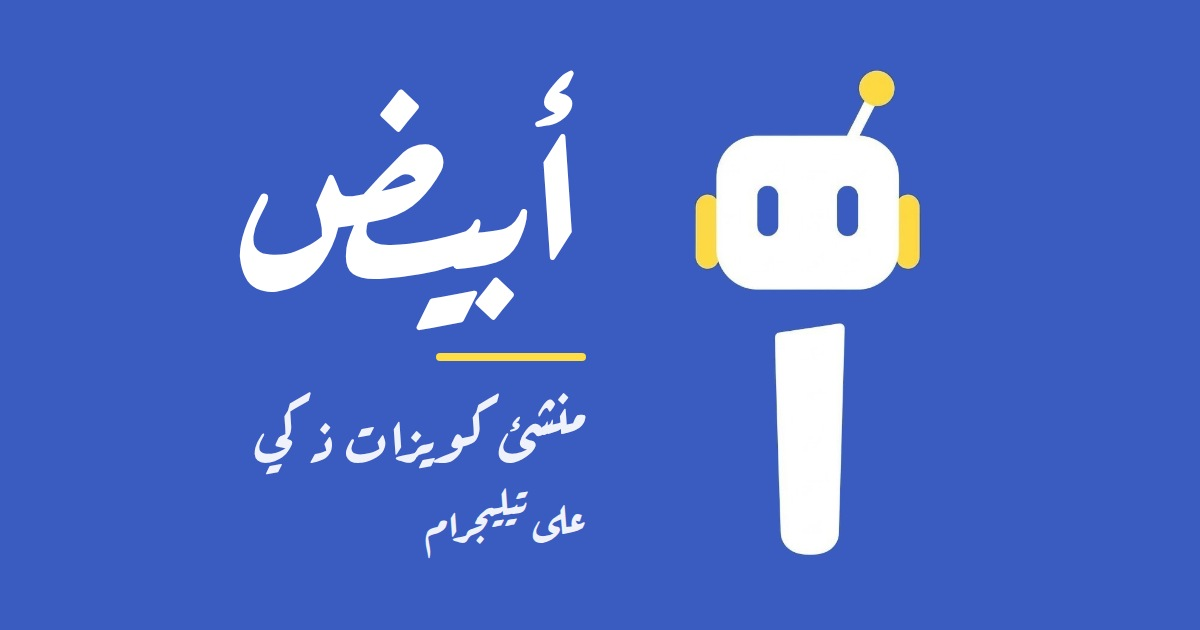
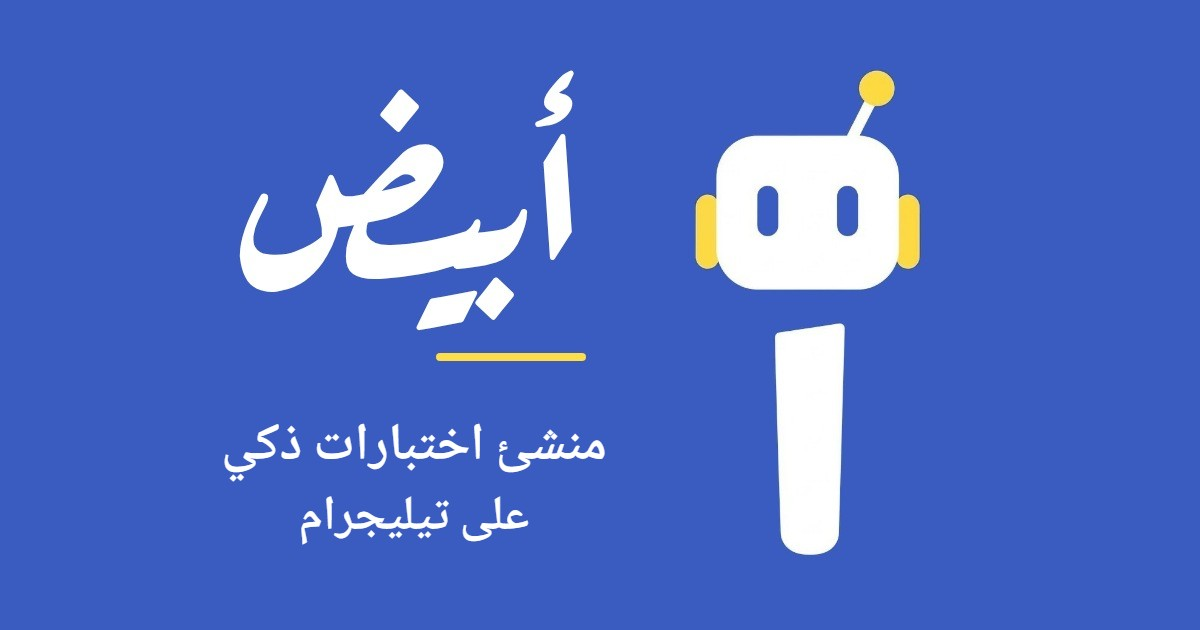
Refresh branded consent preview card

Changed region(s): [[0.185, 0.6333, 0.5242, 0.7841], [0.2467, 0.7841, 0.4933, 0.8746]]

diff --git a/group-quiz/index.html b/group-quiz/index.html
@@ -13,7 +13,7 @@
 <meta property="og:site_name" content="أبيض - منشئ اختبارات ذكي">
 <meta property="og:title" content="اختبار جماعي في مجموعة أو قناة تيليجرام | أبيض">
 <meta property="og:description" content="يشغّل مشرف المجموعة أو القناة اختباراً على تيليجرام بوضع تنافسي مع ترتيب نهائي أو بوضع مجهول، مع مؤقت لكل سؤال وتحكم بوتيرة الأسئلة. تشغيل الاختبار الجماعي لا يخصم نقاطاً.">
-<meta property="og:image" content="https://abiad.me/assets/og-image.jpg?v=4">
+<meta property="og:image" content="https://abiad.me/assets/og-image.jpg?v=5">
 <meta name="twitter:card" content="summary_large_image">
 <link rel="canonical" href="https://abiad.me/group-quiz/">
 <meta property="og:url" content="https://abiad.me/group-quiz/">
@@ -22,7 +22,7 @@
 <meta property="og:image:alt" content="شعار بوت أبيض - منشئ اختبارات ذكي">
 <meta name="twitter:title" content="اختبار جماعي في مجموعة أو قناة تيليجرام | أبيض">
 <meta name="twitter:description" content="يشغّل مشرف المجموعة أو القناة اختباراً على تيليجرام بوضع تنافسي مع ترتيب نهائي أو بوضع مجهول، مع مؤقت لكل سؤال وتحكم بوتيرة الأسئلة. تشغيل الاختبار الجماعي لا يخصم نقاطاً.">
-<meta name="twitter:image" content="https://abiad.me/assets/og-image.jpg?v=4">
+<meta name="twitter:image" content="https://abiad.me/assets/og-image.jpg?v=5">
 <script type="application/ld+json">
 {
   "@context": "https://schema.org",

diff --git a/lecture-transcription/index.html b/lecture-transcription/index.html
@@ -13,7 +13,7 @@
 <meta property="og:site_name" content="أبيض - منشئ اختبارات ذكي">
 <meta property="og:title" content="تفريغ وتلخيص المحاضرات الصوتية إلى نص أو اختبار | أبيض">
 <meta property="og:description" content="ارفع تسجيل محاضرة صوتية (حتى 4 ساعات) إلى بوت أبيض على تيليجرام لتفريغه إلى نص بالعربية بلهجاتها أو الإنجليزية، ثم لخّصه أو صدّره Word وPDF أو حوّله إلى اختبار.">
-<meta property="og:image" content="https://abiad.me/assets/og-image.jpg?v=4">
+<meta property="og:image" content="https://abiad.me/assets/og-image.jpg?v=5">
 <meta name="twitter:card" content="summary_large_image">
 <link rel="canonical" href="https://abiad.me/lecture-transcription/">
 <meta property="og:url" content="https://abiad.me/lecture-transcription/">
@@ -22,7 +22,7 @@
 <meta property="og:image:alt" content="شعار بوت أبيض - منشئ اختبارات ذكي">
 <meta name="twitter:title" content="تفريغ وتلخيص المحاضرات الصوتية إلى نص أو اختبار | أبيض">
 <meta name="twitter:description" content="ارفع تسجيل محاضرة صوتية (حتى 4 ساعات) إلى بوت أبيض على تيليجرام لتفريغه إلى نص بالعربية بلهجاتها أو الإنجليزية، ثم لخّصه أو صدّره Word وPDF أو حوّله إلى اختبار.">
-<meta name="twitter:image" content="https://abiad.me/assets/og-image.jpg?v=4">
+<meta name="twitter:image" content="https://abiad.me/assets/og-image.jpg?v=5">
 <script type="application/ld+json">
 {
   "@context": "https://schema.org",

diff --git a/english-french-quiz/index.html b/english-french-quiz/index.html
@@ -13,7 +13,7 @@
 <meta property="og:site_name" content="أبيض - منشئ اختبارات ذكي">
 <meta property="og:title" content="اختبار إنجليزي أو فرنسي مع ترجمة عربية على تيليجرام | أبيض">
 <meta property="og:description" content="أنشئ اختباراً للغة الإنجليزية أو الفرنسية على بوت أبيض: قواعد أو قراءة أو اختباراً عاماً، واختر أن تظهر الأسئلة مترجمة إلى العربية أو بلغتها الأصلية.">
-<meta property="og:image" content="https://abiad.me/assets/og-image.jpg?v=4">
+<meta property="og:image" content="https://abiad.me/assets/og-image.jpg?v=5">
 <meta name="twitter:card" content="summary_large_image">
 <link rel="canonical" href="https://abiad.me/english-french-quiz/">
 <meta property="og:url" content="https://abiad.me/english-french-quiz/">
@@ -22,7 +22,7 @@
 <meta property="og:image:alt" content="شعار بوت أبيض - منشئ اختبارات ذكي">
 <meta name="twitter:title" content="اختبار إنجليزي أو فرنسي مع ترجمة عربية على تيليجرام | أبيض">
 <meta name="twitter:description" content="أنشئ اختباراً للغة الإنجليزية أو الفرنسية على بوت أبيض: قواعد أو قراءة أو اختباراً عاماً، واختر أن تظهر الأسئلة مترجمة إلى العربية أو بلغتها الأصلية.">
-<meta name="twitter:image" content="https://abiad.me/assets/og-image.jpg?v=4">
+<meta name="twitter:image" content="https://abiad.me/assets/og-image.jpg?v=5">
 <script type="application/ld+json">
 {
   "@context": "https://schema.org",

diff --git a/exam-to-quiz/index.html b/exam-to-quiz/index.html
@@ -13,7 +13,7 @@
 <meta property="og:site_name" content="أبيض - منشئ اختبارات ذكي">
 <meta property="og:title" content="تحويل اختبار جاهز إلى اختبار تفاعلي على تيليجرام | أبيض">
 <meta property="og:description" content="إذا كان لديك اختبار أسئلته اختيار من متعدد، يتعرف عليه بوت أبيض ويتيح لك استخراجه مع أجوبته الأصلية أو أن يحلّه الذكاء الاصطناعي، ثم تحلّه كاختبار تفاعلي.">
-<meta property="og:image" content="https://abiad.me/assets/og-image.jpg?v=4">
+<meta property="og:image" content="https://abiad.me/assets/og-image.jpg?v=5">
 <meta name="twitter:card" content="summary_large_image">
 <link rel="canonical" href="https://abiad.me/exam-to-quiz/">
 <meta property="og:url" content="https://abiad.me/exam-to-quiz/">
@@ -22,7 +22,7 @@
 <meta property="og:image:alt" content="شعار بوت أبيض - منشئ اختبارات ذكي">
 <meta name="twitter:title" content="تحويل اختبار جاهز إلى اختبار تفاعلي على تيليجرام | أبيض">
 <meta name="twitter:description" content="إذا كان لديك اختبار أسئلته اختيار من متعدد، يتعرف عليه بوت أبيض ويتيح لك استخراجه مع أجوبته الأصلية أو أن يحلّه الذكاء الاصطناعي، ثم تحلّه كاختبار تفاعلي.">
-<meta name="twitter:image" content="https://abiad.me/assets/og-image.jpg?v=4">
+<meta name="twitter:image" content="https://abiad.me/assets/og-image.jpg?v=5">
 <script type="application/ld+json">
 {
   "@context": "https://schema.org",

diff --git a/create-quiz-on-telegram/index.html b/create-quiz-on-telegram/index.html
@@ -13,7 +13,7 @@
 <meta property="og:site_name" content="أبيض - منشئ اختبارات ذكي">
 <meta property="og:title" content="كيف تنشئ اختباراً على تيليجرام من ملفك أو صورك | أبيض">
 <meta property="og:description" content="دليل عملي لإنشاء اختبارات تفاعلية (كويزات) على تيليجرام باستخدام بوت أبيض: ما الذي ترسله، وكيف تختار عدد الأسئلة والصعوبة، وكيف تحلّ الاختبار وتشاركه.">
-<meta property="og:image" content="https://abiad.me/assets/og-image.jpg?v=4">
+<meta property="og:image" content="https://abiad.me/assets/og-image.jpg?v=5">
 <meta name="twitter:card" content="summary_large_image">
 <link rel="canonical" href="https://abiad.me/create-quiz-on-telegram/">
 <meta property="og:url" content="https://abiad.me/create-quiz-on-telegram/">
@@ -22,7 +22,7 @@
 <meta property="og:image:alt" content="شعار بوت أبيض - منشئ اختبارات ذكي">
 <meta name="twitter:title" content="كيف تنشئ اختباراً على تيليجرام من ملفك أو صورك | أبيض">
 <meta name="twitter:description" content="دليل عملي لإنشاء اختبارات تفاعلية (كويزات) على تيليجرام باستخدام بوت أبيض: ما الذي ترسله، وكيف تختار عدد الأسئلة والصعوبة، وكيف تحلّ الاختبار وتشاركه.">
-<meta name="twitter:image" content="https://abiad.me/assets/og-image.jpg?v=4">
+<meta name="twitter:image" content="https://abiad.me/assets/og-image.jpg?v=5">
 <script type="application/ld+json">
 {
   "@context": "https://schema.org",

diff --git a/math-quiz/index.html b/math-quiz/index.html
@@ -13,7 +13,7 @@
 <meta property="og:site_name" content="أبيض - منشئ اختبارات ذكي">
 <meta property="og:title" content="أسئلة رياضيات بمعادلات ومصفوفات داخل تيليجرام | أبيض">
 <meta property="og:description" content="في أسئلة الرياضيات يعرض بوت أبيض المعادلات والجداول والمصفوفات كصور داخل السؤال، مع خيارات على شكل أحرف. اختر مسائل أو قواعد أو نظرية من ملفك أو صورك.">
-<meta property="og:image" content="https://abiad.me/assets/og-image.jpg?v=4">
+<meta property="og:image" content="https://abiad.me/assets/og-image.jpg?v=5">
 <meta name="twitter:card" content="summary_large_image">
 <link rel="canonical" href="https://abiad.me/math-quiz/">
 <meta property="og:url" content="https://abiad.me/math-quiz/">
@@ -22,7 +22,7 @@
 <meta property="og:image:alt" content="شعار بوت أبيض - منشئ اختبارات ذكي">
 <meta name="twitter:title" content="أسئلة رياضيات بمعادلات ومصفوفات داخل تيليجرام | أبيض">
 <meta name="twitter:description" content="في أسئلة الرياضيات يعرض بوت أبيض المعادلات والجداول والمصفوفات كصور داخل السؤال، مع خيارات على شكل أحرف. اختر مسائل أو قواعد أو نظرية من ملفك أو صورك.">
-<meta name="twitter:image" content="https://abiad.me/assets/og-image.jpg?v=4">
+<meta name="twitter:image" content="https://abiad.me/assets/og-image.jpg?v=5">
 <script type="application/ld+json">
 {
   "@context": "https://schema.org",

diff --git a/image-to-quiz/index.html b/image-to-quiz/index.html
@@ -13,7 +13,7 @@
 <meta property="og:site_name" content="أبيض - منشئ اختبارات ذكي">
 <meta property="og:title" content="إنشاء اختبار من صورة أو ألبوم صور على تيليجرام | أبيض">
 <meta property="og:description" content="أرسل صورة أو ألبوم صور إلى بوت أبيض لإنشاء اختبارات تفاعلية (كويزات) من محتواها. يقبل تيليجرام حتى 10 صور، وصفحة الرفع على الويب حتى 50 صورة.">
-<meta property="og:image" content="https://abiad.me/assets/og-image.jpg?v=4">
+<meta property="og:image" content="https://abiad.me/assets/og-image.jpg?v=5">
 <meta name="twitter:card" content="summary_large_image">
 <link rel="canonical" href="https://abiad.me/image-to-quiz/">
 <meta property="og:url" content="https://abiad.me/image-to-quiz/">
@@ -22,7 +22,7 @@
 <meta property="og:image:alt" content="شعار بوت أبيض - منشئ اختبارات ذكي">
 <meta name="twitter:title" content="إنشاء اختبار من صورة أو ألبوم صور على تيليجرام | أبيض">
 <meta name="twitter:description" content="أرسل صورة أو ألبوم صور إلى بوت أبيض لإنشاء اختبارات تفاعلية (كويزات) من محتواها. يقبل تيليجرام حتى 10 صور، وصفحة الرفع على الويب حتى 50 صورة.">
-<meta name="twitter:image" content="https://abiad.me/assets/og-image.jpg?v=4">
+<meta name="twitter:image" content="https://abiad.me/assets/og-image.jpg?v=5">
 <script type="application/ld+json">
 {
   "@context": "https://schema.org",

diff --git a/export-quiz-word-pdf/index.html b/export-quiz-word-pdf/index.html
@@ -13,7 +13,7 @@
 <meta property="og:site_name" content="أبيض - منشئ اختبارات ذكي">
 <meta property="og:title" content="تحميل اختبار تيليجرام بصيغة Word أو PDF مع جدول الإجابات | أبيض">
 <meta property="og:description" content="صدّر اختبارك من بوت أبيض إلى Word أو PDF بثلاثة أنماط، مع جدول الإجابات الصحيحة وشرحها، لتطبعه أو توزّعه كورقة تدريب أو مراجعة.">
-<meta property="og:image" content="https://abiad.me/assets/og-image.jpg?v=4">
+<meta property="og:image" content="https://abiad.me/assets/og-image.jpg?v=5">
 <meta name="twitter:card" content="summary_large_image">
 <link rel="canonical" href="https://abiad.me/export-quiz-word-pdf/">
 <meta property="og:url" content="https://abiad.me/export-quiz-word-pdf/">
@@ -22,7 +22,7 @@
 <meta property="og:image:alt" content="شعار بوت أبيض - منشئ اختبارات ذكي">
 <meta name="twitter:title" content="تحميل اختبار تيليجرام بصيغة Word أو PDF مع جدول الإجابات | أبيض">
 <meta name="twitter:description" content="صدّر اختبارك من بوت أبيض إلى Word أو PDF بثلاثة أنماط، مع جدول الإجابات الصحيحة وشرحها، لتطبعه أو توزّعه كورقة تدريب أو مراجعة.">
-<meta name="twitter:image" content="https://abiad.me/assets/og-image.jpg?v=4">
+<meta name="twitter:image" content="https://abiad.me/assets/og-image.jpg?v=5">
 <script type="application/ld+json">
 {
   "@context": "https://schema.org",

diff --git a/word-powerpoint-to-quiz/index.html b/word-powerpoint-to-quiz/index.html
@@ -13,7 +13,7 @@
 <meta property="og:site_name" content="أبيض - منشئ اختبارات ذكي">
 <meta property="og:title" content="توليد أسئلة من ملف Word أو PowerPoint على تيليجرام | أبيض">
 <meta property="og:description" content="ارفع Word (docx) أو PowerPoint (pptx) أو نصاً (txt) إلى بوت أبيض لإنشاء اختبارات تفاعلية (كويزات) بأسئلة اختيار من متعدد. لا يدعم doc أو ppt القديمين.">
-<meta property="og:image" content="https://abiad.me/assets/og-image.jpg?v=4">
+<meta property="og:image" content="https://abiad.me/assets/og-image.jpg?v=5">
 <meta name="twitter:card" content="summary_large_image">
 <link rel="canonical" href="https://abiad.me/word-powerpoint-to-quiz/">
 <meta property="og:url" content="https://abiad.me/word-powerpoint-to-quiz/">
@@ -22,7 +22,7 @@
 <meta property="og:image:alt" content="شعار بوت أبيض - منشئ اختبارات ذكي">
 <meta name="twitter:title" content="توليد أسئلة من ملف Word أو PowerPoint على تيليجرام | أبيض">
 <meta name="twitter:description" content="ارفع Word (docx) أو PowerPoint (pptx) أو نصاً (txt) إلى بوت أبيض لإنشاء اختبارات تفاعلية (كويزات) بأسئلة اختيار من متعدد. لا يدعم doc أو ppt القديمين.">
-<meta name="twitter:image" content="https://abiad.me/assets/og-image.jpg?v=4">
+<meta name="twitter:image" content="https://abiad.me/assets/og-image.jpg?v=5">
 <script type="application/ld+json">
 {
   "@context": "https://schema.org",

diff --git a/index.html b/index.html
@@ -13,7 +13,7 @@
 <meta property="og:site_name" content="أبيض - منشئ اختبارات ذكي">
 <meta property="og:title" content="توليد أسئلة بالذكاء الاصطناعي من PDF والصور | أبيض">
 <meta property="og:description" content="ولّد أسئلة بالذكاء الاصطناعي من ملفات PDF والصور والنصوص والمحاضرات مع بوت أبيض على تيليجرام. حلّ الاختبار، راجع أخطاءك، وصدّر نسخة PDF أو Word.">
-<meta property="og:image" content="https://abiad.me/assets/og-image.jpg?v=4">
+<meta property="og:image" content="https://abiad.me/assets/og-image.jpg?v=5">
 <meta name="twitter:card" content="summary_large_image">
 <link rel="canonical" href="https://abiad.me/">
 <meta property="og:url" content="https://abiad.me/">
@@ -22,7 +22,7 @@
 <meta property="og:image:alt" content="شعار بوت أبيض - منشئ اختبارات ذكي">
 <meta name="twitter:title" content="توليد أسئلة بالذكاء الاصطناعي من PDF والصور | أبيض">
 <meta name="twitter:description" content="ولّد أسئلة بالذكاء الاصطناعي من ملفات PDF والصور والنصوص والمحاضرات مع بوت أبيض على تيليجرام. حلّ الاختبار، راجع أخطاءك، وصدّر نسخة PDF أو Word.">
-<meta name="twitter:image" content="https://abiad.me/assets/og-image.jpg?v=4">
+<meta name="twitter:image" content="https://abiad.me/assets/og-image.jpg?v=5">
 <script type="application/ld+json">
 {
   "@context": "https://schema.org",

diff --git a/pdf-to-mcq/index.html b/pdf-to-mcq/index.html
@@ -13,7 +13,7 @@
 <meta property="og:site_name" content="أبيض - منشئ اختبارات ذكي">
 <meta property="og:title" content="تحويل PDF إلى أسئلة اختيار من متعدد على تيليجرام | أبيض">
 <meta property="og:description" content="أرسل ملف PDF إلى بوت أبيض لإنشاء اختبارات تفاعلية (كويزات) من 1 إلى 120 سؤالاً، مع اختيار الصعوبة وأربعة خيارات وتلميح وشرح لكل سؤال.">
-<meta property="og:image" content="https://abiad.me/assets/og-image.jpg?v=4">
+<meta property="og:image" content="https://abiad.me/assets/og-image.jpg?v=5">
 <meta name="twitter:card" content="summary_large_image">
 <link rel="canonical" href="https://abiad.me/pdf-to-mcq/">
 <meta property="og:url" content="https://abiad.me/pdf-to-mcq/">
@@ -22,7 +22,7 @@
 <meta property="og:image:alt" content="شعار بوت أبيض - منشئ اختبارات ذكي">
 <meta name="twitter:title" content="تحويل PDF إلى أسئلة اختيار من متعدد على تيليجرام | أبيض">
 <meta name="twitter:description" content="أرسل ملف PDF إلى بوت أبيض لإنشاء اختبارات تفاعلية (كويزات) من 1 إلى 120 سؤالاً، مع اختيار الصعوبة وأربعة خيارات وتلميح وشرح لكل سؤال.">
-<meta name="twitter:image" content="https://abiad.me/assets/og-image.jpg?v=4">
+<meta name="twitter:image" content="https://abiad.me/assets/og-image.jpg?v=5">
 <script type="application/ld+json">
 {
   "@context": "https://schema.org",

diff --git a/terms-of-service.html b/terms-of-service.html
@@ -13,7 +13,7 @@
 <meta property="og:site_name" content="أبيض - منشئ اختبارات ذكي">
 <meta property="og:title" content="شروط الاستخدام | بوت أبيض">
 <meta property="og:description" content="شروط الاستخدام الخاصة ببوت أبيض - منشئ اختبارات ذكي على تيليجرام.">
-<meta property="og:image" content="https://abiad.me/assets/og-image.jpg?v=4">
+<meta property="og:image" content="https://abiad.me/assets/og-image.jpg?v=5">
 <meta name="twitter:card" content="summary_large_image">
 <link rel="canonical" href="https://abiad.me/terms-of-service.html">
 <meta property="og:url" content="https://abiad.me/terms-of-service.html">
